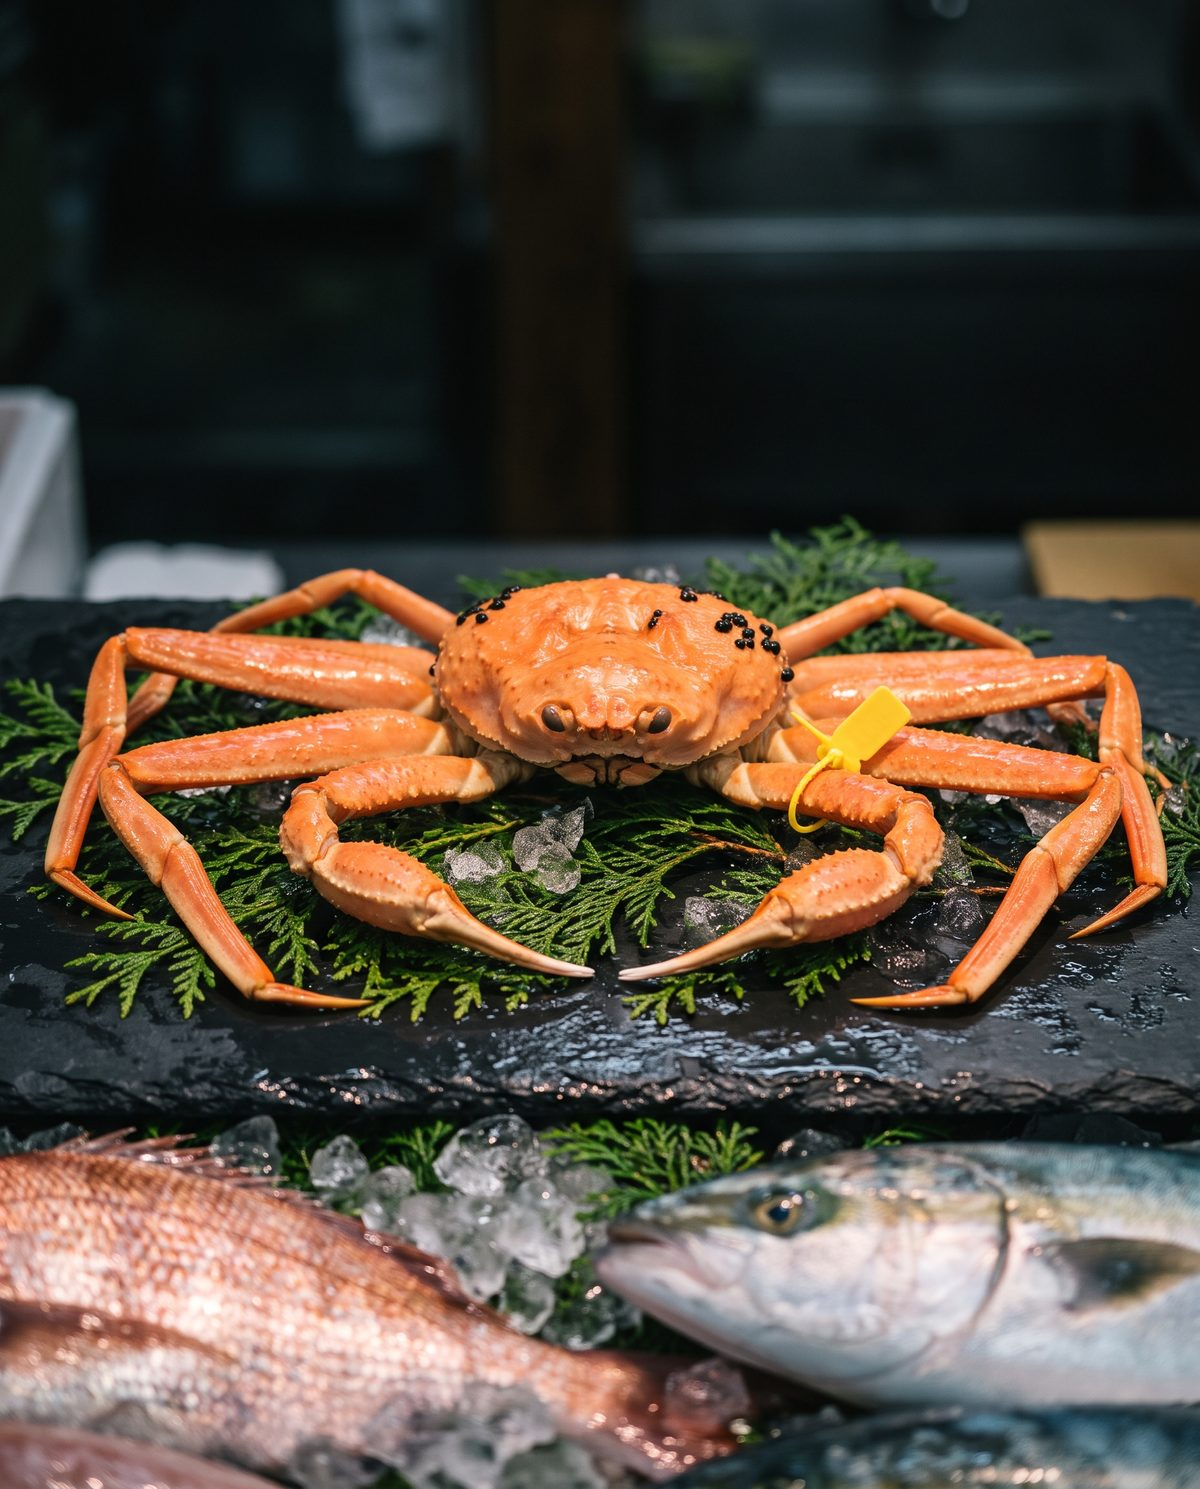
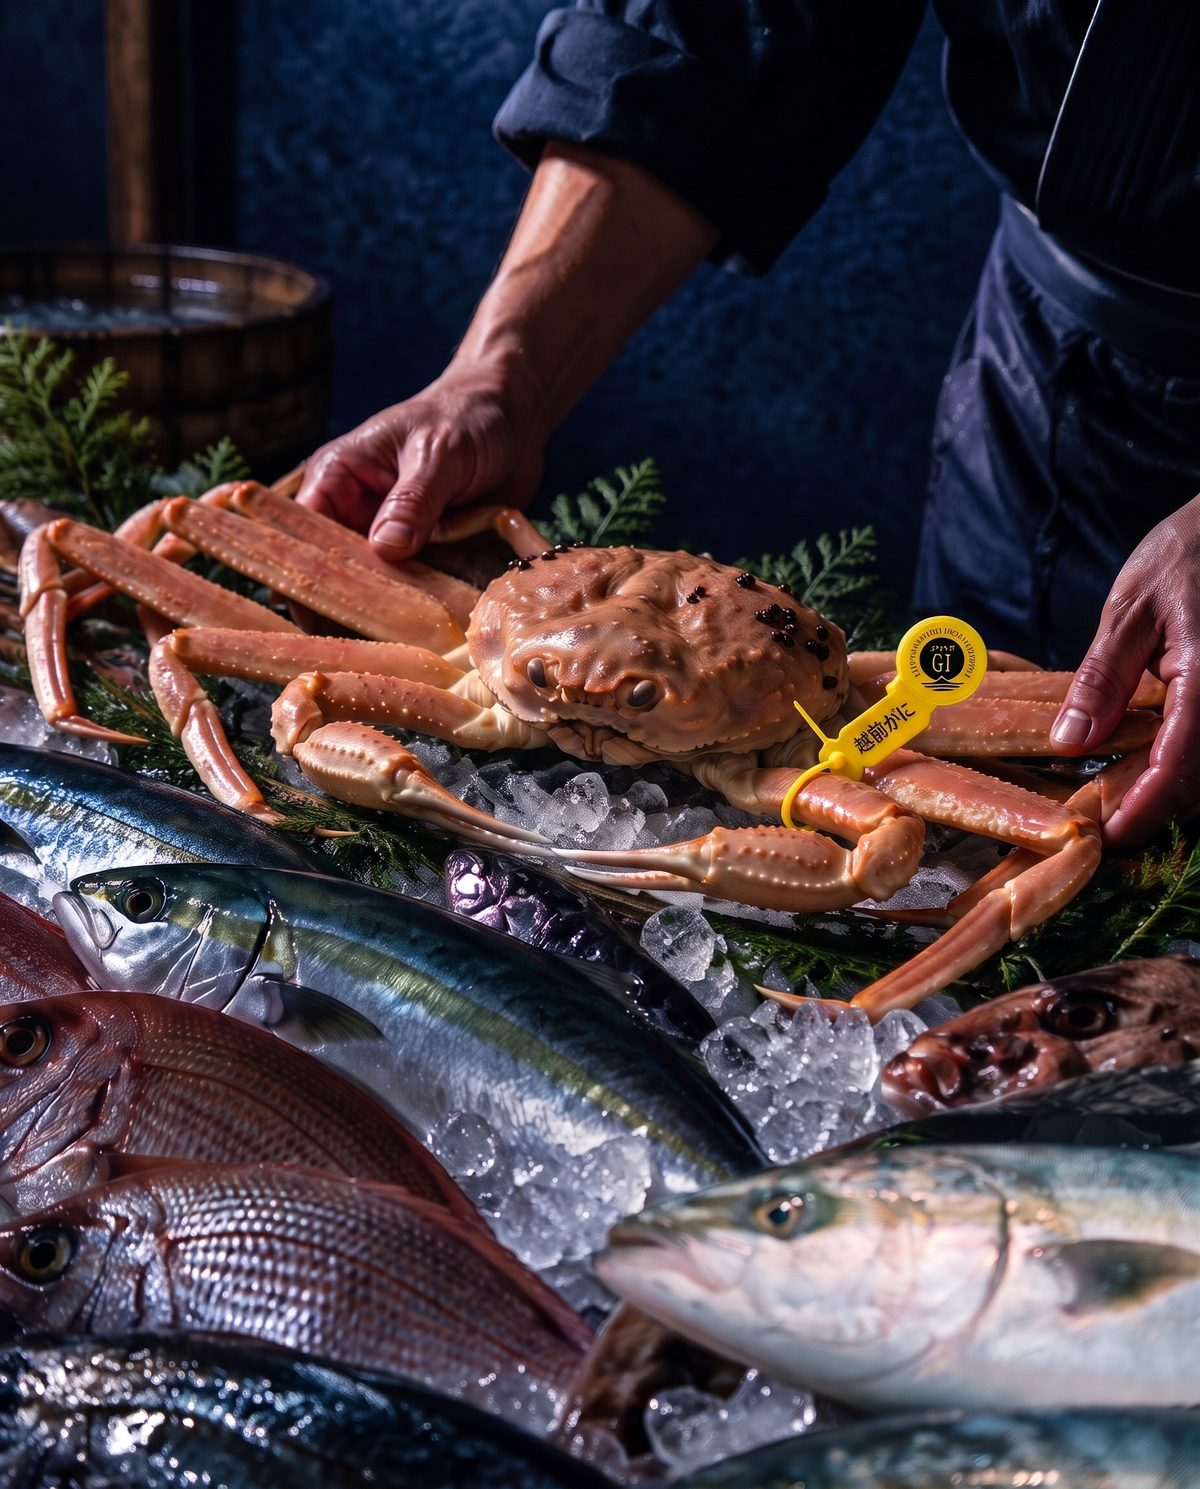
越前の海のカニ画像：最初の構図（手・鮮魚・暗い背景）に実物に近い越前がにと公式の黄色タグ（GIマーク＋越前がに）を入れて作り直し
Claude-Session: https://claude.ai/code/session_01GicF4CNN6PYv9GYgroBVkR

diff --git a/app/page.tsx b/app/page.tsx
@@ -188,7 +188,7 @@ export default async function Home() {
   <section className="wg" id="fukui" aria-label="福井の恵み">
     <div className="wg-stage">
       <div className="wg-slide"><img src="/img/fields.jpg" alt="朝もやの田んぼと白山を望む福井の風景（イメージ）" loading="lazy" /></div>
-      <div className="wg-slide"><img src="/img/crab.jpg" alt="越前がにと越前の鮮魚（イメージ）" loading="lazy" /></div>
+      <div className="wg-slide"><img src="/img/crab.jpg" alt="黄色いタグの付いた越前がにと越前の鮮魚（イメージ）" loading="lazy" /></div>
       <div className="wg-slide"><img src="/img/table.jpg" alt="家族で囲む夕食の食卓（イメージ）" loading="lazy" /></div>
       <div className="wg-shade"></div>
       <div className="wg-copy"><div className="wrap">
@@ -201,7 +201,7 @@ export default async function Home() {
   </section>
   
   <div className="goods-wrap" id="goods"><div className="wrap goods">
-    <a className="good rv" href="#goods"><div className="ph"><img src="/img/crab.jpg" alt="越前がにと越前の鮮魚（イメージ）" loading="lazy" /></div><div className="t"><b>越前の鮮魚</b><span>港から、その日のうちに</span></div></a>
+    <a className="good rv" href="#goods"><div className="ph"><img src="/img/crab.jpg" alt="黄色いタグの付いた越前がにと越前の鮮魚（イメージ）" loading="lazy" /></div><div className="t"><b>越前の鮮魚</b><span>港から、その日のうちに</span></div></a>
     <a className="good rv" href="#goods"><div className="ph"><img src="/img/hands.jpg" alt="手づくり惣菜（イメージ）" loading="lazy" /></div><div className="t"><b>手づくり惣菜</b><span>木村フーズの台所から</span></div></a>
     <a className="good rv" href="#goods"><div className="ph"><img src="/img/table.jpg" alt="特製オードブル（イメージ）" loading="lazy" /></div><div className="t"><b>特製オードブル</b><span>ネットで予約・店頭で受取</span></div></a>
     <a className="good rv" href="#goods"><div className="ph"><img src="/img/fields.jpg" alt="ふくいの特産（イメージ）" loading="lazy" /></div><div className="t"><b>ふくいの贈りもの</b><span>オンラインショップ［準備中］</span></div></a>

diff --git a/app/kimura.css b/app/kimura.css
@@ -141,7 +141,7 @@ section.pad{padding-block:clamp(72px,10vw,140px)}
 .wg-stage{position:sticky;top:0;height:100vh;height:100svh;overflow:hidden;color:#fff}
 .wg-slide{position:absolute;inset:0}
 .wg-slide img{width:100%;height:100%;object-fit:cover;transform:scale(1.06)}
-.wg-slide:nth-child(2) img{object-position:50% 50%}
+.wg-slide:nth-child(2) img{object-position:50% 40%}
 .wg-slide:nth-child(2){clip-path:inset(calc(var(--w1,1)*100%) 0 0 0)}
 .wg-slide:nth-child(3){clip-path:inset(calc(var(--w2,1)*100%) 0 0 0)}
 .wg-shade{position:absolute;inset:0;background:linear-gradient(90deg,rgba(18,20,23,.78),rgba(18,20,23,.15) 60%);pointer-events:none}
